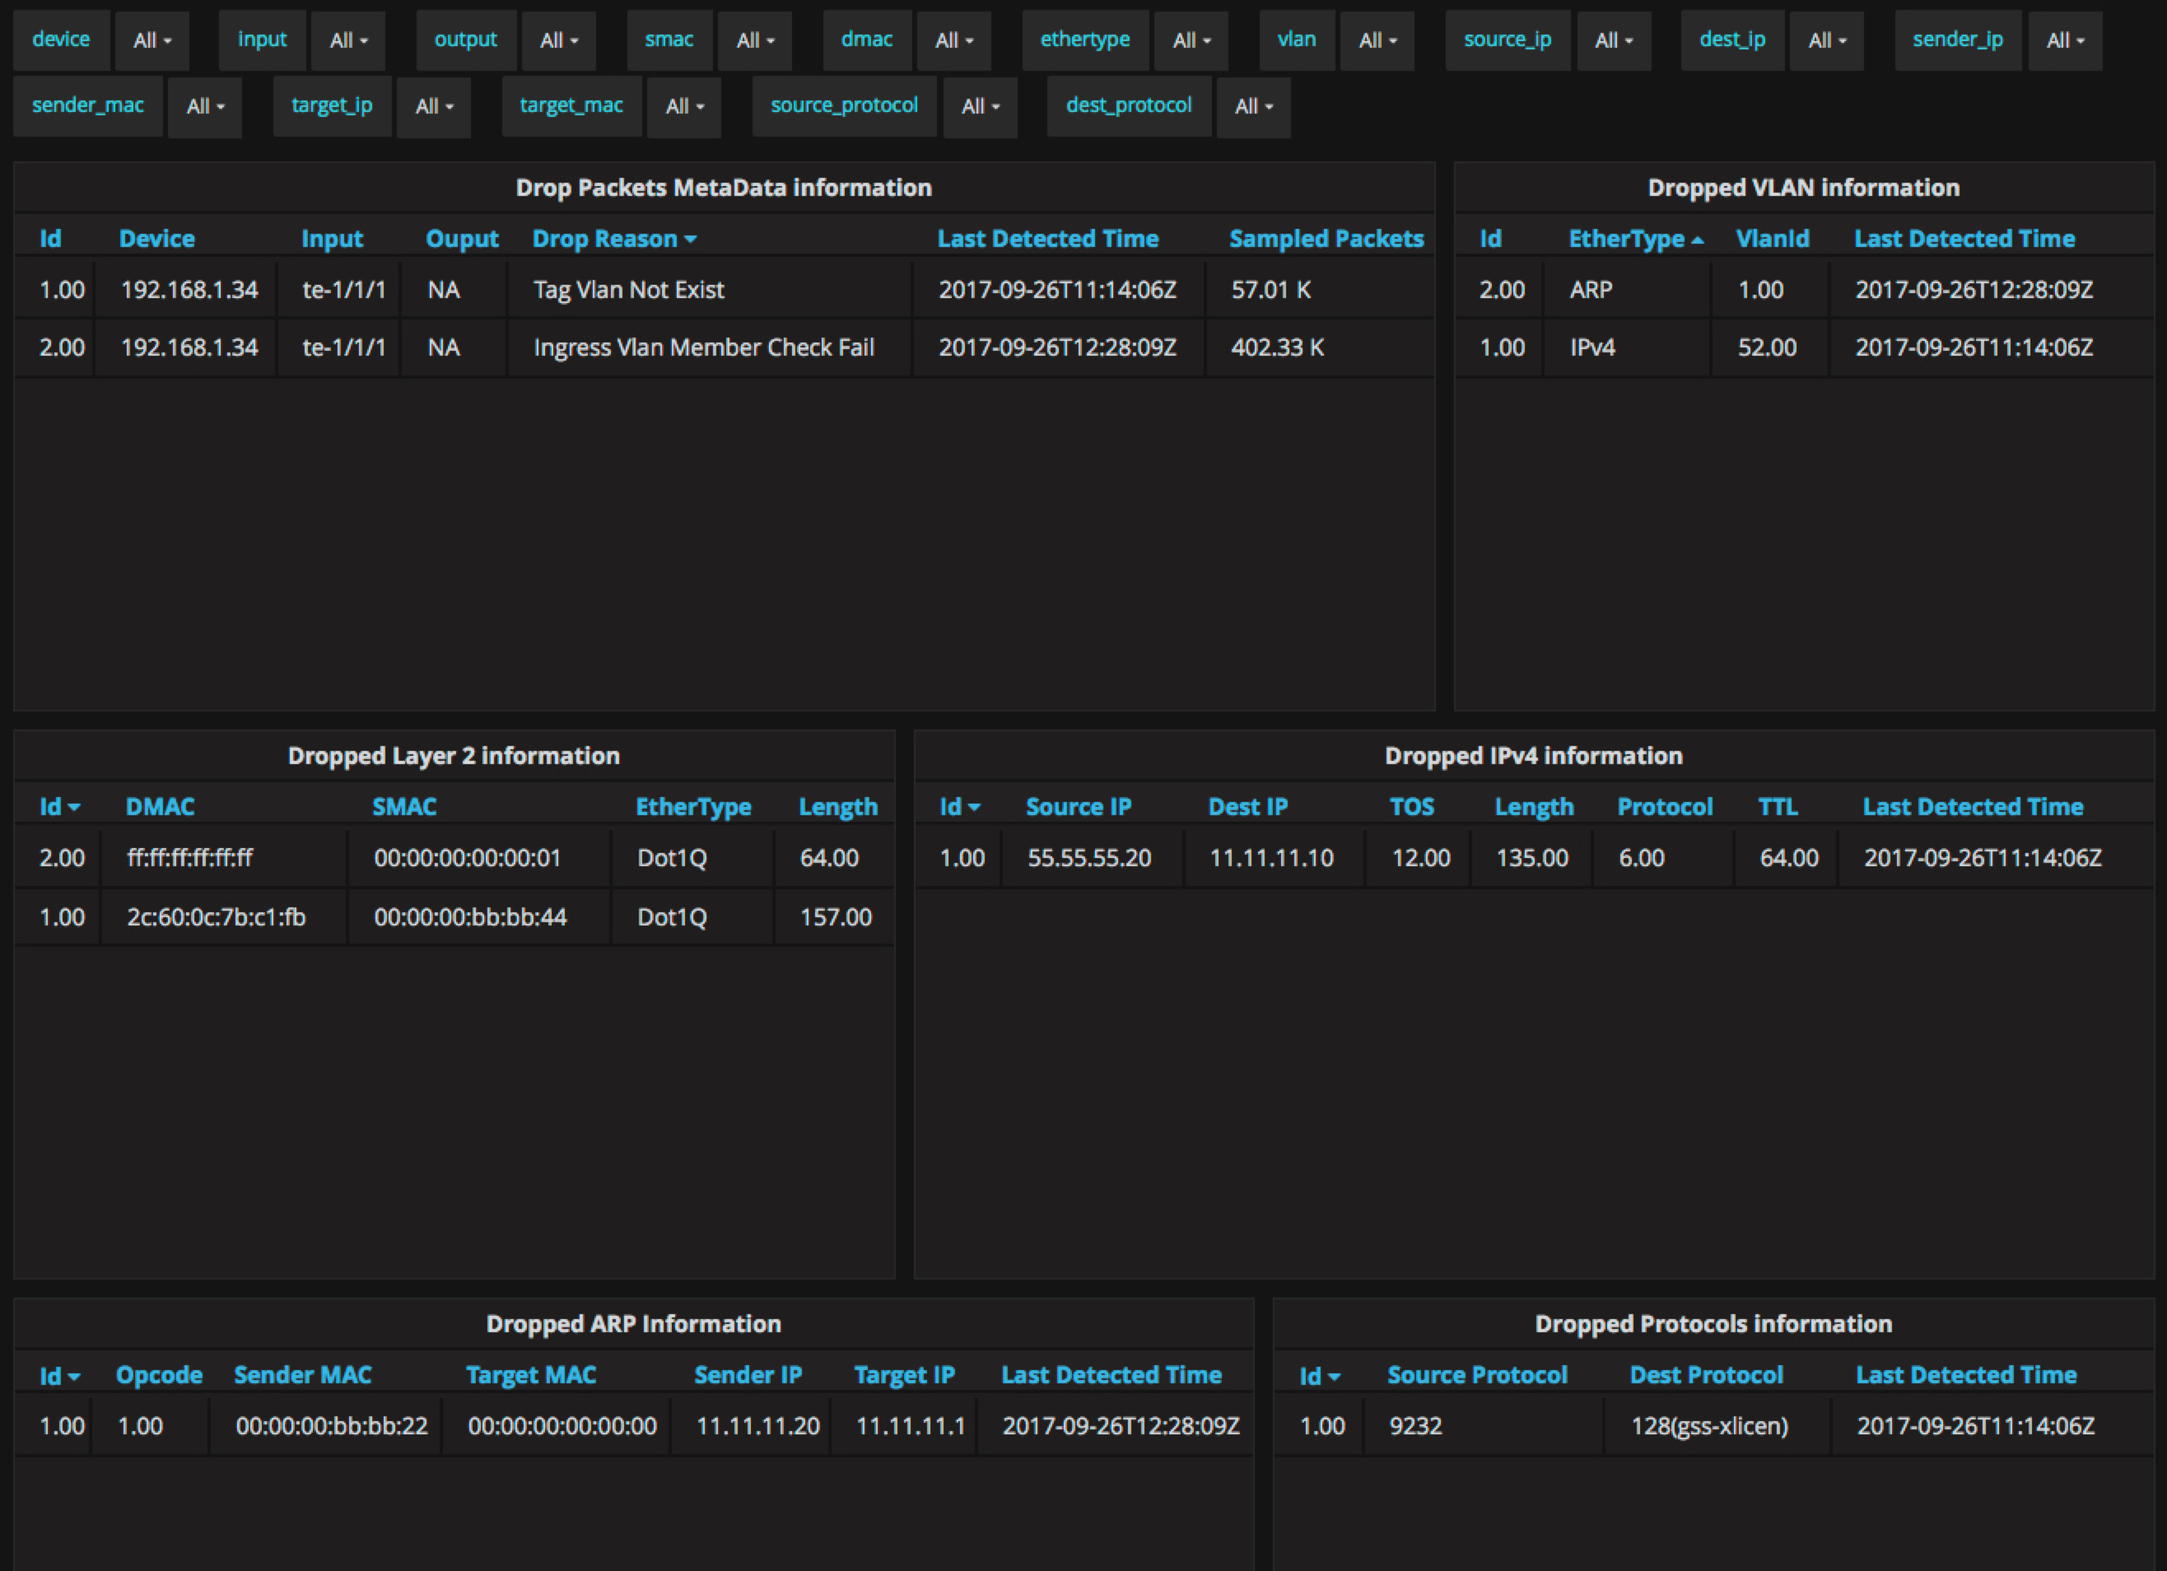
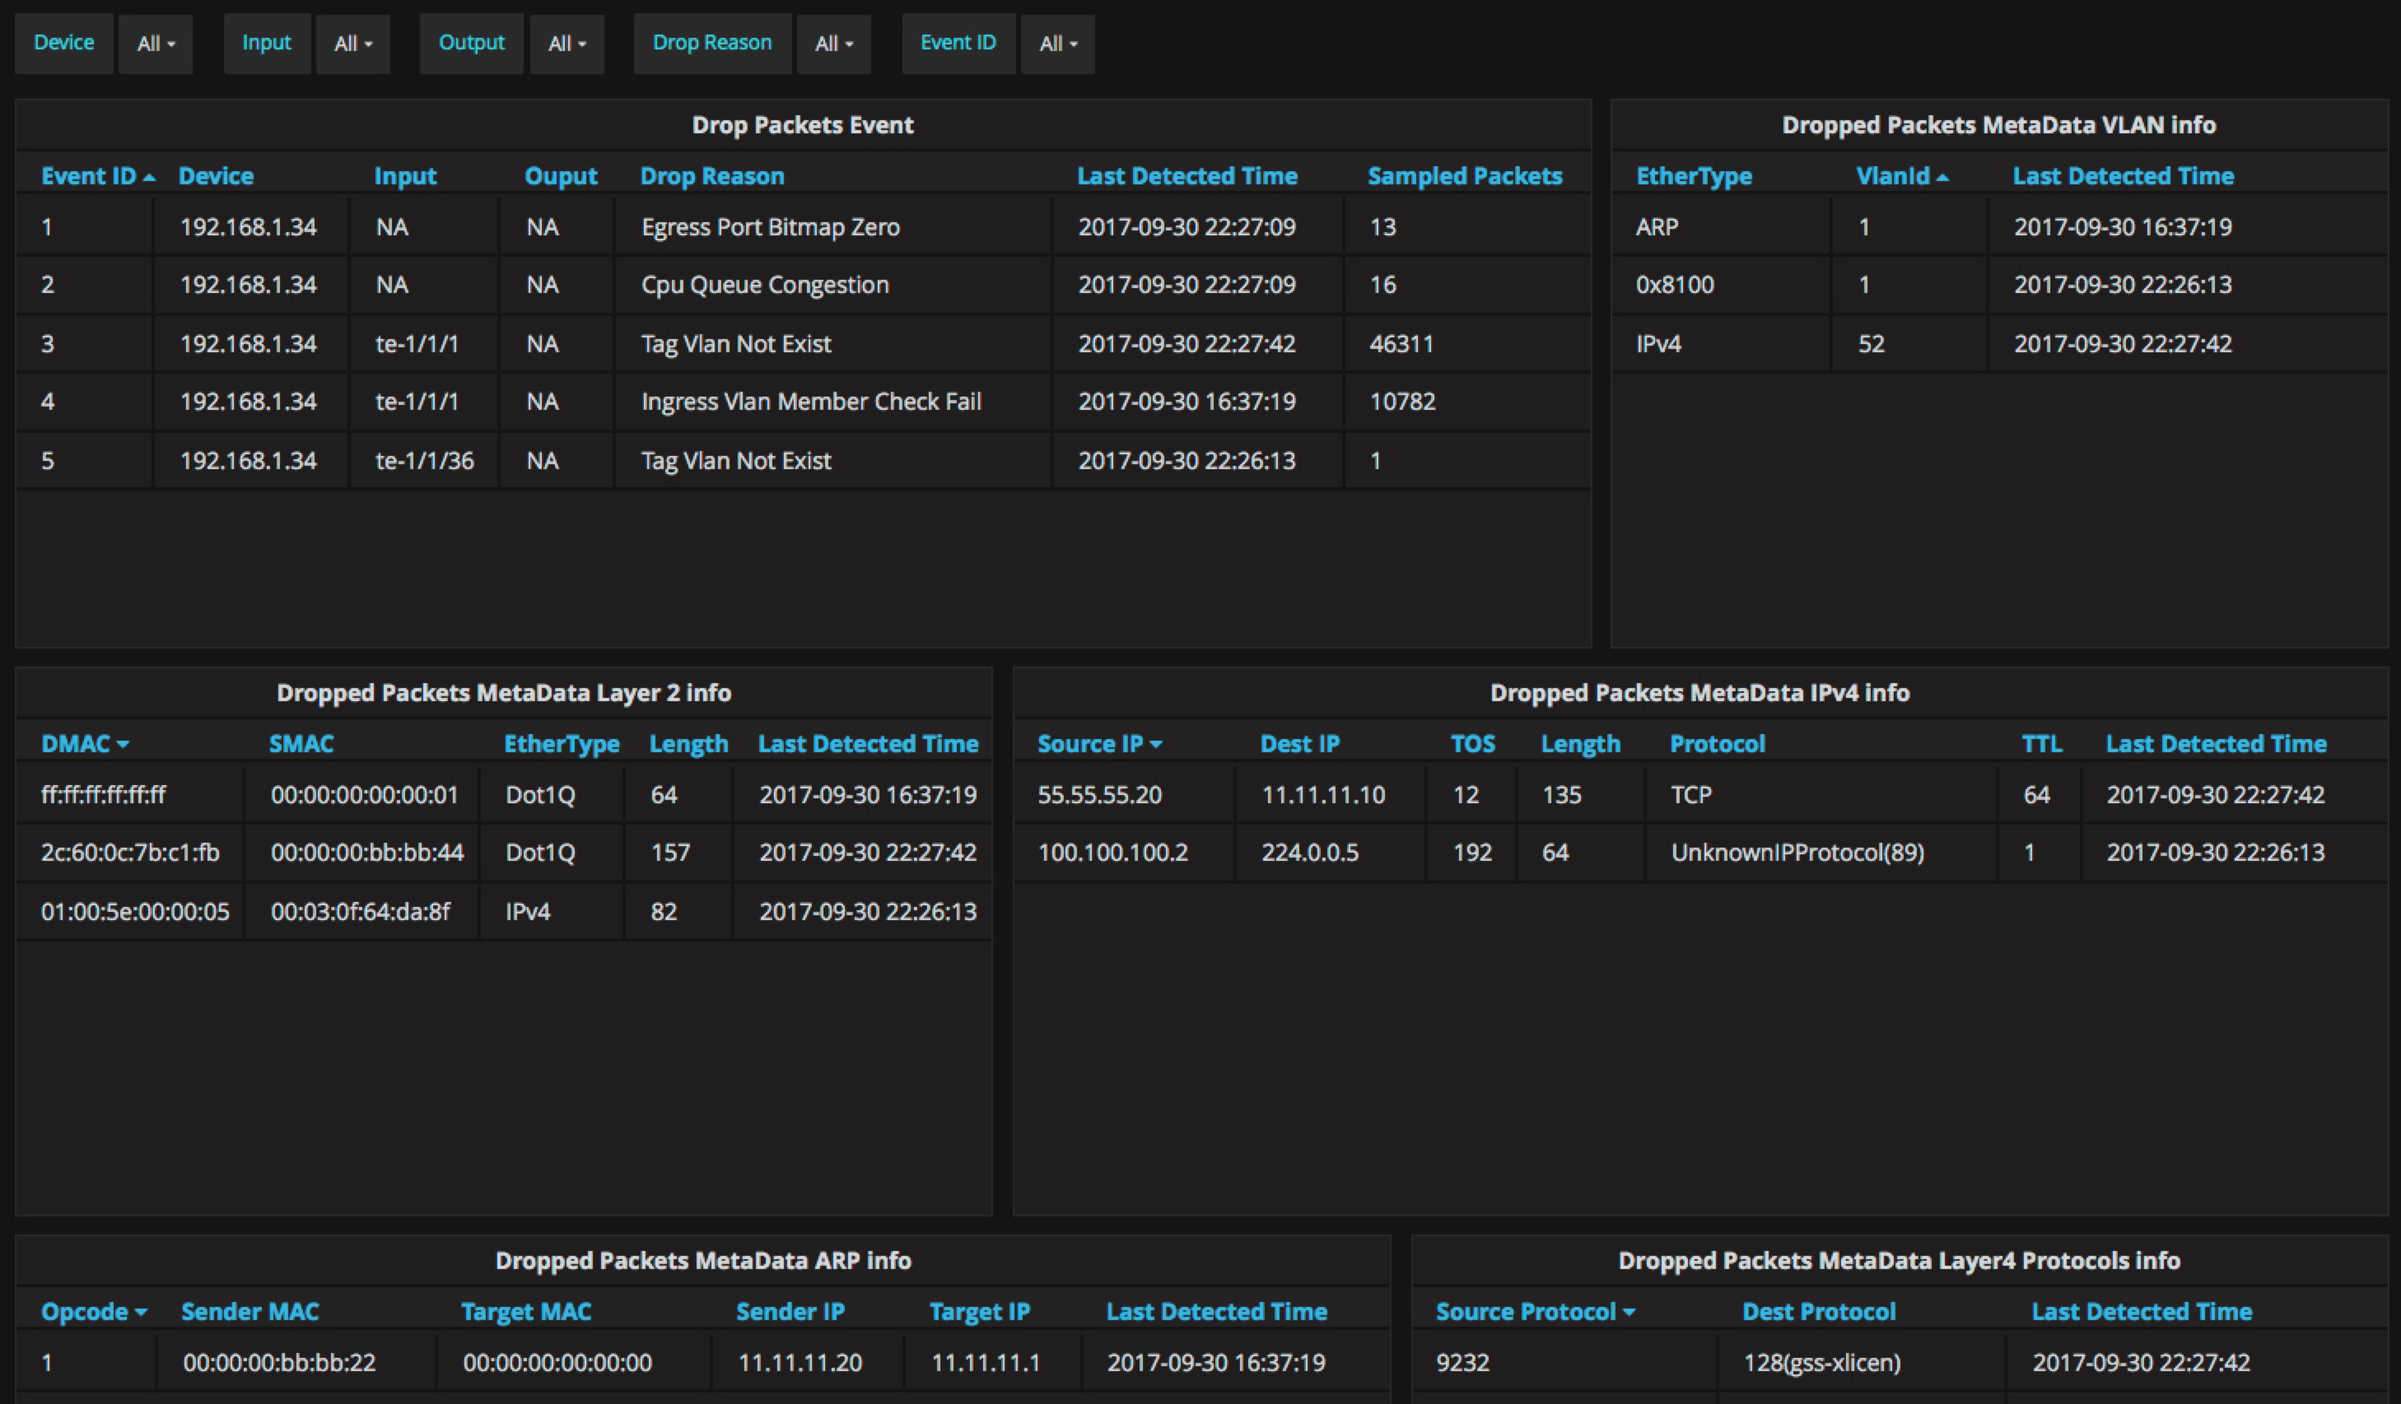
modify the relationship of the ui tables.

diff --git a/collector/agent/sdrop.go b/collector/agent/sdrop.go
@@ -21,7 +21,7 @@ const (
     MyDB = "drop_packets"
     service = ":32768"
     username = "root"
-    password = "1q2w3e"
+    password = "mysqlpass"
     DbUrl = username + ":" + password + "@/" + MyDB + "?charset=utf8"
     hexDigit = "0123456789abcdef"
 )
@@ -106,8 +106,7 @@ func decodePacketData(packet string) []byte {
 func updateDropPacketMeta(db *sql.DB,
     device string, ingress_interface string,
     egress_interface string, drop_reason int64, drop_reason_string string,
-    timestamp string, layer2_index int, tag_index int, arp_index int,
-    layer3_index int, layer4_index int) {
+    timestamp string) int {
 
     // if old drop packet meta exists
     stmt, err := db.Prepare("SELECT id,sample_packets FROM drop_packet_meta_info " +
@@ -123,33 +122,36 @@ func updateDropPacketMeta(db *sql.DB,
     if (err == nil) {
         /* update exist one */
         stmt, err := db.Prepare("update drop_packet_meta_info " +
-            "set sample_packets=?,last_detected_time=?,layer2_index=?,tag_index=?," +
-            "arp_index=?,layer3_index=?,layer4_index=? where id=?")
+            "set sample_packets=?,last_detected_time=? where id=?")
         checkErr(err)
 
-        _, err = stmt.Exec(sample_packets + 1, timestamp, layer2_index, tag_index,
-            arp_index, layer3_index, layer4_index, id)
+        _, err = stmt.Exec(sample_packets + 1, timestamp, id)
         checkErr(err)
     } else {
         /* insert new one */
         stmt, err := db.Prepare(
             "INSERT drop_packet_meta_info SET " +
             "device=?,ingress_interface=?,egress_interface=?,drop_reason=?," +
-            "drop_reason_string=?,last_detected_time=?," +
-            "sample_packets=?,layer2_index=?,tag_index=?,arp_index=?,layer3_index=?,layer4_index=?")
+            "drop_reason_string=?,last_detected_time=?,sample_packets=?")
         checkErr(err)
 
-        _, err = stmt.Exec(device, ingress_interface, egress_interface,
-            drop_reason, drop_reason_string, timestamp, 1, layer2_index,
-            tag_index, arp_index, layer3_index, layer4_index)
+        res, err := stmt.Exec(device, ingress_interface, egress_interface,
+            drop_reason, drop_reason_string, timestamp, 1)
         checkErr(err)
+
+        tmp, err := res.LastInsertId()
+        checkErr(err)
+
+        id = int(tmp)
     }
 
     stmt.Close();
+
+    return id
 }
 
 func updateDropPacketEthernetInfo(db *sql.DB, packet gopacket.Packet,
-    packet_length uint64, timestamp string) int {
+    packet_length uint64, timestamp string, drop_index int) {
     var id int
 
     // Get the ethernet layer from this packet
@@ -173,28 +175,28 @@ func updateDropPacketEthernetInfo(db *sql.DB, packet gopacket.Packet,
         if (err == nil) {
             /* update exist one */
             stmt, err := db.Prepare("update drop_packet_layer2_info " +
-                "set length=?,last_detected_time=? where id=?")
+                "set length=?,last_detected_time=?,drop_id=? where id=?")
             checkErr(err)
 
-            _, err = stmt.Exec(length, timestamp, id)
+            _, err = stmt.Exec(length, timestamp, drop_index, id)
             checkErr(err)
         } else {
             /* insert new one */
             stmt, err := db.Prepare("INSERT drop_packet_layer2_info SET " +
-                "smac=?,dmac=?,ether_type=?,length=?,last_detected_time=?")
+                "smac=?,dmac=?,ether_type=?,length=?,last_detected_time=?,drop_id=?")
             checkErr(err)
 
-            _, err = stmt.Exec(smac, dmac, etype, length, timestamp)
+            _, err = stmt.Exec(smac, dmac, etype, length, timestamp, drop_index)
             checkErr(err)
         }
 
         stmt.Close();
     }
-
-    return id
 }
 
-func updateDropPacketVlanInfo(db *sql.DB, packet gopacket.Packet, vid uint16, timestamp string) int {
+func updateDropPacketVlanInfo(db *sql.DB, packet gopacket.Packet,
+    vid uint16, timestamp string, drop_index int) {
+
     var id int
     var vlanid uint16
     var etype string
@@ -223,27 +225,25 @@ func updateDropPacketVlanInfo(db *sql.DB, packet gopacket.Packet, vid uint16, ti
     if (err == nil) {
         /* update exist one */
         stmt, err := db.Prepare("update drop_packet_vlan_tag_info " +
-        "set last_detected_time=? where id=?")
+        "set last_detected_time=?,drop_id=? where id=?")
         checkErr(err)
 
-        _, err = stmt.Exec(timestamp, id)
+        _, err = stmt.Exec(timestamp, drop_index, id)
         checkErr(err)
     } else {
         /* insert new one */
         stmt, err := db.Prepare("INSERT drop_packet_vlan_tag_info SET " +
-        "tpid=?,vlanid=?,last_detected_time=?")
+        "tpid=?,vlanid=?,last_detected_time=?,drop_id=?")
         checkErr(err)
 
-        _, err = stmt.Exec(etype, vlanid, timestamp)
+        _, err = stmt.Exec(etype, vlanid, timestamp, drop_index)
         checkErr(err)
     }
 
     stmt.Close()
-
-    return id
 }
 
-func updateDropPacketArpInfo(db *sql.DB, packet gopacket.Packet, timestamp string) int {
+func updateDropPacketArpInfo(db *sql.DB, packet gopacket.Packet, timestamp string, drop_index int) {
     var id int
 
     // Get the arp layer from this packet
@@ -268,28 +268,26 @@ func updateDropPacketArpInfo(db *sql.DB, packet gopacket.Packet, timestamp strin
         if (err == nil) {
             /* update exist one */
             stmt, err := db.Prepare("update drop_packet_arp_info " +
-            "set last_detected_time=? where id=?")
+            "set last_detected_time=?,drop_id=? where id=?")
             checkErr(err)
 
-            _, err = stmt.Exec(timestamp, id)
+            _, err = stmt.Exec(timestamp, drop_index, id)
             checkErr(err)
         } else {
             stmt, err := db.Prepare("INSERT drop_packet_arp_info SET " +
                 "opcode=?,sender_ip=?,sender_mac=?,target_ip=?,target_mac=?," +
-                "last_detected_time=?")
+                "last_detected_time=?,drop_id=?")
             checkErr(err)
 
-            _, err = stmt.Exec(op, sip, smac, tip, tmac, timestamp)
+            _, err = stmt.Exec(op, sip, smac, tip, tmac, timestamp, drop_index)
             checkErr(err)
         }
 
         stmt.Close()
     }
-
-    return id
 }
 
-func updateDropPacketIpv4Info(db *sql.DB, packet gopacket.Packet, timestamp string) int {
+func updateDropPacketIpv4Info(db *sql.DB, packet gopacket.Packet, timestamp string, drop_index int) {
     var id int
 
     // Get the IPv4 layer from this packet
@@ -315,29 +313,27 @@ func updateDropPacketIpv4Info(db *sql.DB, packet gopacket.Packet, timestamp stri
         if (err == nil) {
             /* update exist one */
             stmt, err := db.Prepare("update drop_packet_ipv4_info " +
-            "set tos=?,length=?,ttl=?,last_detected_time=? where id=?")
+            "set tos=?,length=?,ttl=?,last_detected_time=?,drop_id=? where id=?")
             checkErr(err)
 
-            _, err = stmt.Exec(tos, length, ttl, timestamp, id)
+            _, err = stmt.Exec(tos, length, ttl, timestamp, drop_index, id)
             checkErr(err)
         } else {
             /* insert new one */
             stmt, err := db.Prepare("INSERT drop_packet_ipv4_info SET " +
                 "source_ip=?,destination_ip=?,tos=?,length=?,ttl=?," +
-                "protocol=?,last_detected_time=?")
+                "protocol=?,last_detected_time=?,drop_id=?")
             checkErr(err)
 
-            _, err = stmt.Exec(sip, dip, tos, length, ttl, proto, timestamp)
+            _, err = stmt.Exec(sip, dip, tos, length, ttl, proto, timestamp, drop_index)
             checkErr(err)
         }
 
         stmt.Close()
     }
-
-    return id
 }
 
-func updateDropPacketProtocolInfo(db *sql.DB, packet gopacket.Packet, timestamp string) int {
+func updateDropPacketProtocolInfo(db *sql.DB, packet gopacket.Packet, timestamp string, drop_index int) {
     var sport string
     var dport string
 
@@ -353,7 +349,7 @@ func updateDropPacketProtocolInfo(db *sql.DB, packet gopacket.Packet, timestamp 
         sport = udp.SrcPort.String()
         dport = udp.DstPort.String()
     } else {
-        return 0
+        return
     }
 
     // if old drop packet meta exists
@@ -369,24 +365,22 @@ func updateDropPacketProtocolInfo(db *sql.DB, packet gopacket.Packet, timestamp 
     if (err == nil) {
         /* update exist one */
         stmt, err := db.Prepare("update drop_packet_ip_protocol_info " +
-            "set l4_source_port=?,l4_destination_port=?,last_detected_time=? where id=?")
+            "set l4_source_port=?,l4_destination_port=?,last_detected_time=?,drop_id=? where id=?")
         checkErr(err)
 
-        _, err = stmt.Exec(sport, dport, timestamp, id)
+        _, err = stmt.Exec(sport, dport, timestamp, drop_index, id)
         checkErr(err)
     } else {
         /* insert new one */
         stmt, err := db.Prepare("INSERT drop_packet_ip_protocol_info SET " +
-            "l4_source_port=?,l4_destination_port=?,last_detected_time=?")
+            "l4_source_port=?,l4_destination_port=?,last_detected_time=?,drop_id=?")
         checkErr(err)
 
-        _, err = stmt.Exec(sport, dport, timestamp)
+        _, err = stmt.Exec(sport, dport, timestamp, drop_index)
         checkErr(err)
     }
 
     stmt.Close()
-
-    return id
 }
 
 func processDropPacket(packet string, addr *net.UDPAddr) {
@@ -406,18 +400,17 @@ func processDropPacket(packet string, addr *net.UDPAddr) {
     if datasize != 0 {
         pkt := gopacket.NewPacket(data, layers.LayerTypeEthernet, gopacket.Default)
 
-        layer2_index := updateDropPacketEthernetInfo(db, pkt, packetsize, timestamp)
-        tag_index := updateDropPacketVlanInfo(db, pkt, uint16(vlanid), timestamp)
-        arp_index := updateDropPacketArpInfo(db, pkt, timestamp)
-        layer3_index := updateDropPacketIpv4Info(db, pkt, timestamp)
-        layer4_index := updateDropPacketProtocolInfo(db, pkt, timestamp)
-        updateDropPacketMeta(db, fmt.Sprintf("%s", addr.IP),
-            ingress_interface, egress_interface, drop_reason, drop_reason_string,
-            timestamp, layer2_index, tag_index, arp_index, layer3_index, layer4_index)
+        drop_index := updateDropPacketMeta(db, fmt.Sprintf("%s", addr.IP),
+            ingress_interface, egress_interface, drop_reason, drop_reason_string, timestamp)
+        updateDropPacketEthernetInfo(db, pkt, packetsize, timestamp, drop_index)
+        updateDropPacketVlanInfo(db, pkt, uint16(vlanid), timestamp, drop_index)
+        updateDropPacketArpInfo(db, pkt, timestamp, drop_index)
+        updateDropPacketIpv4Info(db, pkt, timestamp, drop_index)
+        updateDropPacketProtocolInfo(db, pkt, timestamp, drop_index)
     } else {
-        updateDropPacketMeta(db, fmt.Sprintf("%s", addr.IP),
+        _ = updateDropPacketMeta(db, fmt.Sprintf("%s", addr.IP),
             ingress_interface,egress_interface, drop_reason, drop_reason_string,
-            timestamp, 0, 0, 0, 0, 0)
+            timestamp)
     }
 
     db.Close()

diff --git a/collector/README.md b/collector/README.md
@@ -1,4 +1,4 @@
-# collector
+# Collector
 
 This sdrop collector is based grafana, use grafana as the user interface to present the information.
 
@@ -10,3 +10,113 @@ grafana is a powerful frontend to represent metric, it supports all kinds of dat
 Below is UI of the sdrop collector.
 
 <img src="./sdrop.png" width = "900" height = "600" alt="sdrop grafana" align=center />
+
+
+## Install step
+
+Follow the step you will set up the sdrop collector.
+
+### Install Grafana
+Grafana is published on [Github](https://github.com/grafana/grafana), go get it's code, then build it.
+
+#### Get grafana code
+<pre>
+go get github.com/grafana/grafana
+</pre>
+
+if you want to build with a forked repo, do as the following
+<pre>
+go get github.com/xxxx/grafana
+mkdir $GOPATH/src/github.com/grafana
+ln -s  $GOPATH/src/github.com/xxxx/grafana $GOPATH/src/github.com/grafana/grafana
+</pre>
+
+#### Build backend
+<pre>
+cd $GOPATH/src/github.com/grafana/grafana
+go run build.go setup
+go run build.go build
+</pre>
+
+#### Build frontend    
+<pre>
+npm install -g yarn
+yarn install --pure-lockfile
+npm run build
+</pre>
+
+#### Running grafana
+<pre>
+cd bin
+./granfana-server
+</pre>    
+
+Lauch the web with URL, default username password admin/admin.<br>
+[http://xxxxx:3000/](http://xxxxx:3000/)
+
+#### Build And Running agent
+
+<pre>
+go get github.com/connetos/sdrop_collector
+cd $GOPATH/src/github.com/connetos/sdrop_collector/collector/agent
+go build
+./agent
+</pre>
+
+### Install Mysql
+
+Install Mysql by package manage tools like apt-get/yum etc.<br>
+Set the Mysql database password, will be used in the agent.<br>
+
+<pre>
+const (
+    MyDB = "drop_packets"
+    service = ":32768"
+    username = "root"
+    password = "mysqlpass"
+    DbUrl = username + ":" + password + "@/" + MyDB + "?charset=utf8"
+    hexDigit = "0123456789abcdef"
+)
+</pre>
+
+### Import database
+Lauch the Mysql CLI, source the database.sql.
+
+<pre>
+mysql -uroot -p
+Enter password:
+Welcome to the MySQL monitor.  Commands end with ; or \g.
+Your MySQL connection id is 51459
+Server version: 5.5.57-0+deb8u1 (Debian)
+
+Copyright (c) 2000, 2017, Oracle and/or its affiliates. All rights reserved.
+
+Oracle is a registered trademark of Oracle Corporation and/or its
+affiliates. Other names may be trademarks of their respective
+owners.
+
+Type 'help;' or '\h' for help. Type '\c' to clear the current input statement.
+
+mysql> source path/to/database.sql
+mysql> use drop_packets
+Reading table information for completion of table and column names
+You can turn off this feature to get a quicker startup with -A
+
+Database changed
+mysql> show tables;
++------------------------------+
+| Tables_in_drop_packets       |
++------------------------------+
+| drop_packet_arp_info         |
+| drop_packet_ip_protocol_info |
+| drop_packet_ipv4_info        |
+| drop_packet_layer2_info      |
+| drop_packet_meta_info        |
+| drop_packet_vlan_tag_info    |
++------------------------------+
+6 rows in set (0.00 sec)
+</pre>
+
+### Import Grafana dashboard
+
+Please refer to README.md in ui directory.
